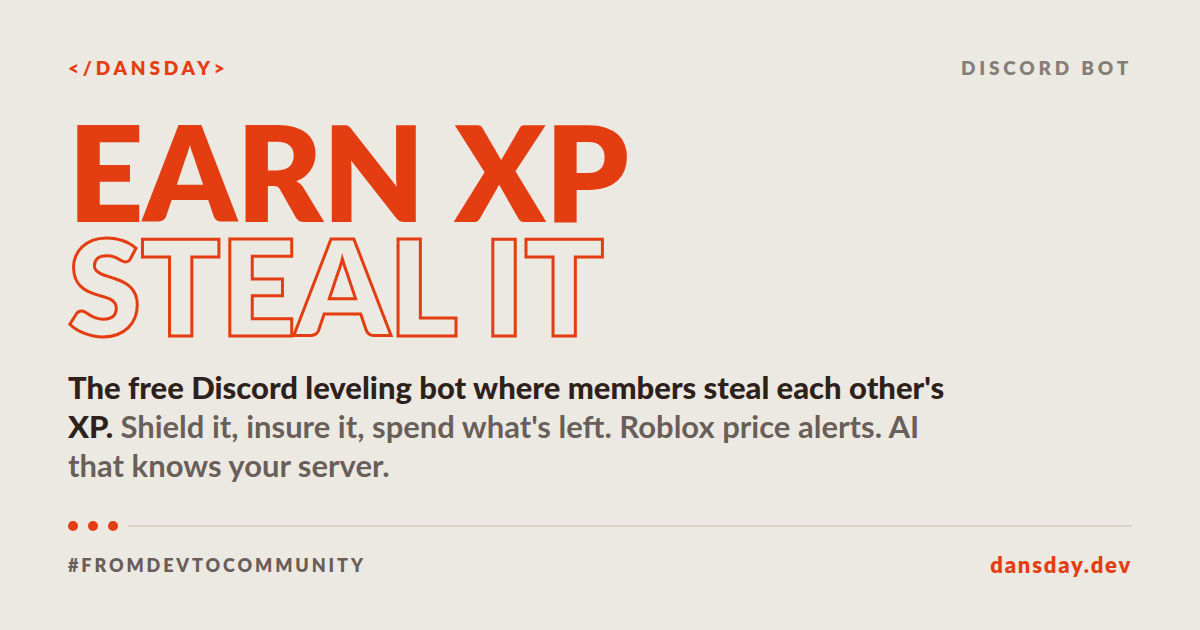
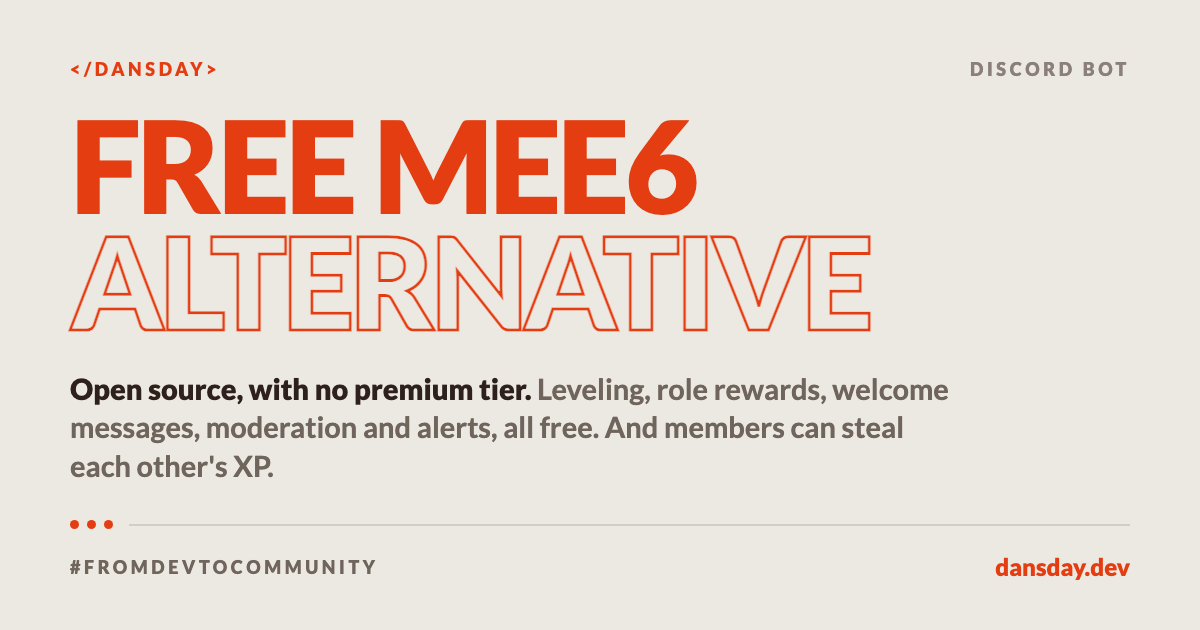
Update SEO

diff --git a/src/routes/+page.svelte b/src/routes/+page.svelte
@@ -489,11 +489,46 @@
 		{ title: 'Mobile ready', desc: 'Phone, tablet or desktop. The same panel.' }
 	];
 
-	const META = ['Free forever', 'AGPL-3.0 licensed', 'Hosted or self-hosted', 'Ten minute demo, no signup'];
+	const META = ['No premium tier', 'Open source, AGPL-3.0', 'Hosted or self-hosted', 'Ten minute demo, no signup'];
 
-	const TITLE = `Free Discord Leveling Bot Where Members Steal XP | ${APP_NAME}`;
+	const TITLE = `Free MEE6 Alternative — Open-Source Discord Leveling Bot | ${APP_NAME}`;
 	const DESCRIPTION =
-		"Free Discord leveling bot where members steal, bomb and leech each other's XP and defend it. Daily tasks, Roblox alerts, server-aware AI. Open source.";
+		'Free, open-source MEE6 alternative. Leveling, role rewards, welcome messages, moderation, giveaways and Twitch/YouTube alerts, with no premium tier.';
+
+	const essentials = [
+		{
+			title: 'Leveling',
+			desc: 'Chat, voice, video and streaming earn XP at rates you set. Level-up messages, and leaderboards for all time, this month and this week.'
+		},
+		{
+			title: 'Role rewards',
+			desc: 'A role at any level you pick, given and taken back by the bot. You decide whether a dropped level costs the role.'
+		},
+		{
+			title: 'Welcome messages',
+			desc: 'Your own welcome messages and embeds for new members, plus thank-you posts for boosters.'
+		},
+		{
+			title: 'Moderation',
+			desc: 'Warn, time out, kick and ban from the dashboard or the staff menu. Auto-escalation, reason presets and a numbered case for every action.'
+		},
+		{
+			title: 'Giveaways',
+			desc: 'Entries, winner picks, and role or invite requirements for who can join.'
+		},
+		{
+			title: 'Twitch, YouTube & TikTok alerts',
+			desc: 'Members follow their own creators and get tagged on new videos, live streams and posts.'
+		},
+		{
+			title: 'Web dashboard',
+			desc: 'Every module is a tab in the browser, with owner and staff access per server. No slash commands to learn.'
+		},
+		{
+			title: 'Open source',
+			desc: 'AGPL-3.0 on GitHub. Add the hosted bot, or run it yourself with Docker. Nothing is held back behind a tier.'
+		}
+	];
 
 	const different = [
 		{
@@ -529,15 +564,19 @@
 	const faq = [
 		{
 			q: 'Is it a free MEE6 alternative?',
-			a: "Leveling, role rewards and level-up messages are free forever. On top of that, members steal, bomb and leech each other's XP and defend it with shields, reflects and insurance. Open source under AGPL-3.0."
+			a: 'Yes. Leveling, role rewards, welcome messages, moderation, giveaways and YouTube, Twitch and TikTok alerts are all free, with no premium tier. The code is open source under AGPL-3.0, so you can read it, change it or run it yourself.'
 		},
 		{
-			q: 'Can it alert on Roblox item prices?',
-			a: "Yes, per member. Anyone can tap Notify me under a catalog post and get tagged when that item's price, resale price, stock or total supply changes."
+			q: 'How is it different from MEE6?',
+			a: "Nothing costs extra, the code is open, and members get more to do: they steal and defend each other's XP, clear daily tasks made for them, and get their own account page."
 		},
 		{
-			q: 'Does the AI know my server?',
-			a: 'Chat and Gemini Live voice answer from your live leaderboards, shop prices, XP rates and statistics, and from any MediaWiki or Fandom wiki you add.'
+			q: 'Is there a web dashboard?',
+			a: 'Every module is configured in the browser instead of slash commands, with owner and staff access per server. /setup builds the channels once.'
+		},
+		{
+			q: 'Can I self-host it?',
+			a: 'The source is on GitHub with Docker Compose and a Node adapter. Or add the hosted bot and skip the infrastructure.'
 		},
 		{
 			q: 'What do members actually get?',
@@ -552,16 +591,12 @@
 			a: 'No. Tasks generate per member, sized from their own last seven days, so every list fits the member and nobody on staff maintains them.'
 		},
 		{
-			q: 'Is there a web dashboard?',
-			a: 'Every module is configured in the browser instead of slash commands, with owner and staff access per server. /setup builds the channels once.'
+			q: 'Does the AI know my server?',
+			a: 'Chat and Gemini Live voice answer from your live leaderboards, shop prices, XP rates and statistics, and from any MediaWiki or Fandom wiki you add.'
 		},
 		{
-			q: 'Does it do the basics too?',
-			a: 'Level-up messages, role rewards, a welcomer, giveaways, moderation, and Twitch, YouTube and TikTok alerts. All free, all in the same panel.'
-		},
-		{
-			q: 'Can I self-host it?',
-			a: 'The source is on GitHub with Docker Compose and a Node adapter. Or add the hosted bot and skip the infrastructure.'
+			q: 'Can it alert on Roblox item prices?',
+			a: "Yes, per member. Anyone can tap Notify me under a catalog post and get tagged when that item's price, resale price, stock or total supply changes."
 		}
 	];
 
@@ -607,13 +642,14 @@
 			<GlobeScene gains={feed.gains} avoid={[heroText, heroFoot]} />
 
 			<div bind:this={heroText}>
-				<p class="display-line animate-rise text-primary block whitespace-nowrap uppercase" style="--ch: 7; --rise-delay: 80ms">Earn XP</p>
+				<p class="display-line animate-rise text-primary block whitespace-nowrap uppercase" style="--ch: 9; --rise-delay: 80ms">Free MEE6</p>
 				<span class="animate-rise block" style="--rise-delay: 200ms">
-					<p class="display-line display-fill text-primary block whitespace-nowrap uppercase" style="--ch: 8; --sweep-delay: 720ms">Steal it</p>
+					<p class="display-line display-fill text-primary block whitespace-nowrap uppercase" style="--ch: 11; --sweep-delay: 720ms">Alternative</p>
 				</span>
 				<h1 class="animate-rise text-base-content/70 mt-6 text-[14px] leading-[1.55] sm:max-w-[44ch] 2xl:text-[17px]" style="--rise-delay: 380ms">
-					<strong class="text-base-content font-extrabold">Free Discord leveling bot where members steal each other's XP.</strong>
-					Shield it, insure it, spend what's left. Personal daily tasks, Roblox price alerts and AI that knows your server, all set up in a browser.
+					<strong class="text-base-content font-extrabold">The free, open-source MEE6 alternative for Discord.</strong>
+					Leveling, role rewards, welcome messages, moderation, giveaways and creator alerts, with no premium tier. Then the part MEE6 doesn't have: members steal
+					each other's XP.
 				</h1>
 			</div>
 
@@ -631,8 +667,8 @@
 
 				<div class="grid grid-cols-1 items-end gap-6 sm:grid-cols-3">
 					<a
-						href="#different"
-						aria-label="Scroll to what makes it different"
+						href="#essentials"
+						aria-label="Scroll to the essentials"
 						class="text-primary hover:text-accent flex w-fit items-center gap-3 text-[11.5px] font-extrabold tracking-[0.16em] uppercase transition-all duration-300 2xl:text-[14px] {scrolled
 							? 'pointer-events-none translate-y-1 opacity-0'
 							: 'opacity-100'}"
@@ -672,9 +708,29 @@
 			</div>
 		</section>
 
+		<section class="border-base-300 scroll-mt-20 border-t py-10 sm:py-13 lg:py-16" id="essentials">
+			<div class="mb-6">
+				<p class={EYEBROW}>01 — The essentials</p>
+				<h2 class={H2}>Free, no premium</h2>
+				<p class={LEAD}>The features servers usually add MEE6 for, with no paid tier on any of them. The code is open source, so it stays that way.</p>
+			</div>
+			<dl class="border-base-300 border-t">
+				{#each essentials as item, i}
+					<div
+						use:reveal
+						class="{REVEAL_CLASS} border-base-300 grid grid-cols-1 gap-x-6 gap-y-2 border-b py-4 sm:grid-cols-[1fr_1.15fr] sm:items-baseline"
+						style="transition-delay: {i * 60}ms"
+					>
+						<dt class="text-base-content min-w-0 text-[clamp(15px,2.4cqw,24px)] leading-[1.05] font-black tracking-[-0.02em] uppercase">{item.title}</dt>
+						<dd class="text-base-content/70 min-w-0 text-[12.5px] leading-[1.5]">{item.desc}</dd>
+					</div>
+				{/each}
+			</dl>
+		</section>
+
 		<section class="border-base-300 scroll-mt-20 border-t py-10 sm:py-13 lg:py-16" id="different">
 			<div class="mb-6">
-				<p class={EYEBROW}>01 — Why it's different</p>
+				<p class={EYEBROW}>02 — Beyond MEE6</p>
 				<h2 class={H2}>Members play it</h2>
 				<p class={LEAD}>
 					On most leveling bots, XP only ever goes up. Here members take it from each other and fight to keep it, and that gives them a reason to come back
@@ -697,7 +753,7 @@
 
 		<section class="border-base-300 scroll-mt-20 border-t py-10 sm:py-13 lg:py-16" id="features">
 			<div class="mb-7">
-				<p class={EYEBROW}>02 — Modules</p>
+				<p class={EYEBROW}>03 — Modules</p>
 				<h2 class={H2}>Everything your server needs</h2>
 				<p class={LEAD}>
 					All {features.length} of them, drifting past on their own.
@@ -763,7 +819,7 @@
 			<section class="border-base-300 border-t py-10 sm:py-13 lg:py-16">
 				<div class="mb-6 flex flex-col gap-4 sm:flex-row sm:items-end sm:justify-between sm:gap-8">
 					<div class="min-w-0">
-						<p class={EYEBROW}>03 — Communities</p>
+						<p class={EYEBROW}>04 — Communities</p>
 						<h2 class={H2}>Top servers by XP</h2>
 						<p class={LEAD}>The five busiest communities running it right now. Each has its own live public pages, no login needed.</p>
 					</div>
@@ -811,7 +867,7 @@
 			<section class="border-base-300 border-t py-10 sm:py-13 lg:py-16">
 				<div class="mb-6 flex flex-col gap-4 sm:flex-row sm:items-end sm:justify-between sm:gap-8">
 					<div class="min-w-0">
-						<p class={EYEBROW}>04 — Forwarder sources</p>
+						<p class={EYEBROW}>05 — Forwarder sources</p>
 						<h2 class={H2}>Forward from here</h2>
 						<p class={LEAD}>
 							Pull drops, jobs and announcements out of {data.forwarderSourceCount} servers reaching {fmt(data.forwarderSourceMembers)} members, straight into your
@@ -860,7 +916,7 @@
 			<section class="border-base-300 border-t py-10 sm:py-13 lg:py-16">
 				<div class="mb-6 flex flex-col gap-4 sm:flex-row sm:items-end sm:justify-between sm:gap-8">
 					<div class="min-w-0">
-						<p class={EYEBROW}>05 — Discord Quests</p>
+						<p class={EYEBROW}>06 — Discord Quests</p>
 						<h2 class={H2}>Quests worth running</h2>
 						<p class={LEAD}>{data.liveQuestCount} live of {data.questCount} tracked, with the game, the task and the reward.</p>
 					</div>
@@ -923,7 +979,7 @@
 			<section class="border-base-300 border-t py-10 sm:py-13 lg:py-16">
 				<div class="mb-6 flex flex-col gap-4 sm:flex-row sm:items-end sm:justify-between sm:gap-8">
 					<div class="min-w-0">
-						<p class={EYEBROW}>06 — Roblox catalog</p>
+						<p class={EYEBROW}>07 — Roblox catalog</p>
 						<h2 class={H2}>Items under watch</h2>
 						<p class={LEAD}>
 							The most notified, then the most favourited, of {data.robloxCount} catalog items the notifier tracks for price and stock changes.
@@ -993,7 +1049,7 @@
 			<section class="border-base-300 border-t py-10 sm:py-13 lg:py-16">
 				<div class="mb-6 flex flex-col gap-4 sm:flex-row sm:items-end sm:justify-between sm:gap-8">
 					<div class="min-w-0">
-						<p class={EYEBROW}>07 — Wiki knowledge</p>
+						<p class={EYEBROW}>08 — Wiki knowledge</p>
 						<h2 class={H2}>What it can look up</h2>
 						<p class={LEAD}>
 							{data.activeWikiCount} of {data.wikiCount} connected wikis answer questions right now. Every server the bot is in can ask about all of them.
@@ -1040,7 +1096,7 @@
 			<section class="border-base-300 border-t py-10 sm:py-13 lg:py-16">
 				<div class="mb-6 flex flex-col gap-4 sm:flex-row sm:items-end sm:justify-between sm:gap-8">
 					<div class="min-w-0">
-						<p class={EYEBROW}>08 — Tasks</p>
+						<p class={EYEBROW}>09 — Tasks</p>
 						<h2 class={H2}>A pool of {data.taskCount} tasks</h2>
 						<p class={LEAD}>Daily and weekly cards deal from this pool. Goals scale to each member, so nobody gets the same card.</p>
 					</div>
@@ -1072,7 +1128,7 @@
 			<section class="border-base-300 border-t py-10 sm:py-13 lg:py-16">
 				<div class="mb-7 flex flex-col gap-4 sm:flex-row sm:items-end sm:justify-between sm:gap-8">
 					<div class="min-w-0">
-						<p class={EYEBROW}>09 — Items</p>
+						<p class={EYEBROW}>10 — Items</p>
 						<h2 class={H2}>The shop catalog</h2>
 						<p class={LEAD}>{data.buyableItemCount} of {data.itemCount} items on sale right now. The rest stay usable once they are in a bag.</p>
 					</div>
@@ -1105,7 +1161,7 @@
 
 		<section class="border-base-300 border-t py-10 sm:py-13 lg:py-16">
 			<div class="mb-6">
-				<p class={EYEBROW}>10 — The panel</p>
+				<p class={EYEBROW}>11 — The panel</p>
 				<h2 class={H2}>Configured in a browser</h2>
 				<p class={LEAD}>Sign in and you land in the panel. Where a module supports it, you see live bot and server state as it happens.</p>
 			</div>
@@ -1121,7 +1177,7 @@
 
 		<section class="border-base-300 border-t py-10 sm:py-13 lg:py-16">
 			<div class="mb-6">
-				<p class={EYEBROW}>11 — Questions</p>
+				<p class={EYEBROW}>12 — Questions</p>
 				<h2 class={H2}>Before you add it</h2>
 			</div>
 			<dl class="border-base-300 border-t">
@@ -1139,7 +1195,7 @@
 		</section>
 
 		<section class="bleed bg-primary text-primary-content mt-10 -mb-10 py-12 sm:mt-13 sm:py-15 lg:mt-16 lg:py-19">
-			<p class="text-primary-content mb-3.5 text-[10.5px] font-extrabold tracking-[0.2em] uppercase">12 — Start</p>
+			<p class="text-primary-content mb-3.5 text-[10.5px] font-extrabold tracking-[0.2em] uppercase">13 — Start</p>
 			<p class="font-black">
 				<span class="display-line text-primary-content block whitespace-nowrap uppercase" style="--ch: 10">Ready to go</span>
 			</p>

diff --git a/src/lib/frontend/components/shell/PageMeta.svelte b/src/lib/frontend/components/shell/PageMeta.svelte
@@ -5,7 +5,7 @@
 	let { title, description, path }: { title: string; description: string; path: string } = $props();
 
 	const url = $derived(publicSiteOrigin() + path);
-	const image = `${publicSiteOrigin()}/og.png`;
+	const image = `${publicSiteOrigin()}/og.png?v=2`;
 </script>
 
 <svelte:head>
@@ -20,6 +20,6 @@
 	<meta property="og:image" content={image} />
 	<meta property="og:image:width" content="1200" />
 	<meta property="og:image:height" content="630" />
-	<meta property="og:image:alt" content="{APP_NAME} Discord Bot — one panel, every module" />
+	<meta property="og:image:alt" content="{APP_NAME} — the free, open-source MEE6 alternative for Discord" />
 	<meta name="twitter:card" content="summary_large_image" />
 </svelte:head>

diff --git a/README.md b/README.md
@@ -4,9 +4,9 @@
 
 # &lt;/DANSDAY&gt;
 
-**The free Discord leveling bot where members steal each other's XP — and fight to keep it.**
+**The free, open-source MEE6 alternative for Discord — where members can also steal each other's XP.**
 
-Steal, bomb and leech on one side, shield, reflect and insurance on the other. Per-member Roblox price alerts, AI chat and voice that answer from your server's own numbers, personal daily tasks and 70 animated card themes. Configured in a browser. Self-host it or add the hosted bot.
+Leveling, role rewards, welcome messages, moderation, giveaways and YouTube, Twitch and TikTok alerts, with no premium tier. On top of that: XP that members steal and defend, per-member Roblox price alerts, AI chat and voice that answer from your server's own numbers, personal daily tasks and 70 animated card themes. Configured in a browser. Self-host it or add the hosted bot.
 
 [![License: AGPL-3.0](https://img.shields.io/badge/license-AGPL--3.0-1a7f37?style=flat-square)](LICENSE)
 [![Self-hostable](https://img.shields.io/badge/self--host-Docker%20%7C%20Node%2025-2b7489?style=flat-square)](#quick-start)
@@ -24,7 +24,9 @@ Steal, bomb and leech on one side, shield, reflect and insurance on the other. P
 
 ## What makes it different
 
-On most leveling bots, XP only ever goes up. Here **members take it from each other** and fight to keep it, and that gives them a reason to come back tomorrow.
+**Everything is free, and the code is open.** Leveling, role rewards, level-up messages, welcome messages, moderation, giveaways, and YouTube, Twitch and TikTok alerts — the features servers usually add MEE6 for — have no paid tier here, and AGPL-3.0 keeps it that way.
+
+Then there's what MEE6 doesn't do. On most leveling bots, XP only ever goes up. Here **members take it from each other** and fight to keep it, and that gives them a reason to come back tomorrow.
 
 - **Members steal XP.** A steal takes it, a bomb burns it and credits no one, a leech skims what the victim earns next. Shield, reflect and insure against it. Put a bounty on the leader, spy before you strike, disguise yourself off every public board. Luck tilts the rolls.
 - **Roblox alerts per member.** A member taps 🔔 Notify me under any catalog post and gets tagged when that item's price, resale price, stock or total supply changes. Their own watchlist, not a channel-wide feed.
@@ -34,8 +36,6 @@ On most leveling bots, XP only ever goes up. Here **members take it from each ot
 - **Every member gets an account.** One tap on the Account button in the Discord menu opens their own page: where their XP came from, a 14-day flow, who they talk to in voice, their bag, tasks, portfolio, minigames and history. No signup, no password.
 - **70 card themes to win.** Spin 1,000 XP for an animated effect, from fire and aurora to a black hole. It repaints their account, their leaderboard row and their members-list card.
 - **One panel, every server, yours to run.** Every module is a tab in the browser, not a slash command. Multi-bot and multi-server from one login, AGPL-3.0, nothing held back behind a tier.
-
-The basics are here too: leveling, role rewards, a welcomer, giveaways, moderation, and YouTube, Twitch and TikTok alerts. Free, in the same panel.
 
 ---
 
